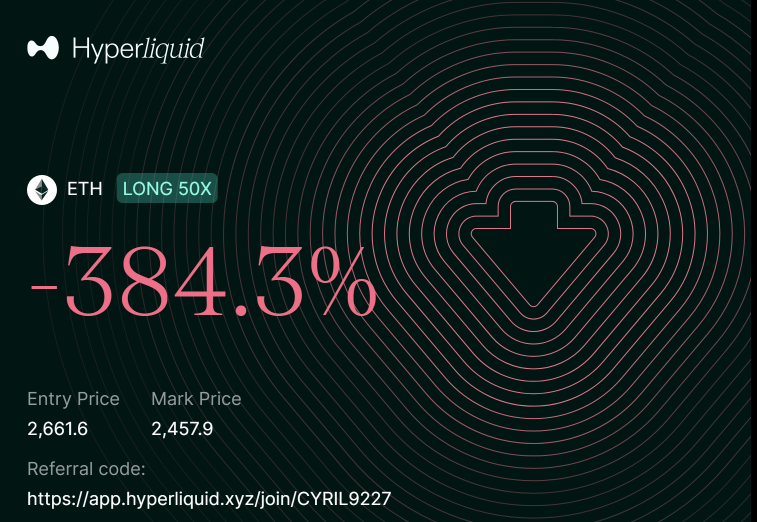
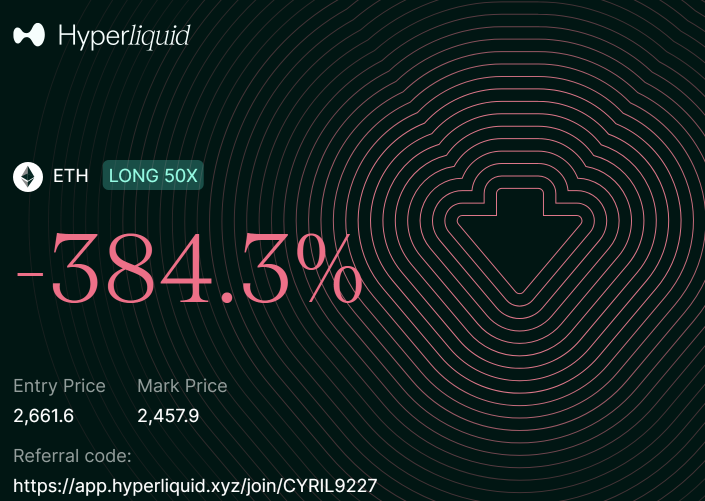
formating

diff --git a/_posts/markov-chain/2024-08-28-markov-chain.md b/_posts/markov-chain/2024-08-28-markov-chain.md
@@ -13,7 +13,10 @@ toc: false
 
 Yeah, so recently I've been reading "The Man Who Solved The Market" by Gregory Zuckerman. Fun book about Jim Simons and his famously cracked Renaissance Technologies hedge fund. Unfortunately, it didn't make me better at trading lol
 
-<img src="/assets/img/rekt.png" alt="HL"> 
+<figure style="text-align: center;">
+  <img src="/assets/img/rekt.png" alt="HL" style="width: 60%; max-width: 500px;">
+  <figcaption style="font-style: italic;">Use my <a href="https://app.hyperliquid.xyz/join/CYRIL9227">ref link</a>👽</figcaption>
+</figure>
 
 but it motivated me to learn more about some of the maths they used. Notably, Markov chains are mentioned a few times, first in the context of the IDA, the Institute for Defense Analyses, where Simons worked before founding Renaissance, he published a paper
 Simons published a paper while working at the IDA in Princeton in 1964 on Markov Chains. So I thought I'd write a post about it.
@@ -62,3 +65,8 @@ This matrix represents the probabilities of moving from one state to another. Ea
 
 
 # Hidden Markov Chains
+
+# Ressources
+
+https://web.stanford.edu/~jurafsky/slp3/A.pdf
+https://github.com/Bratet/Stock-Prediction-Using-Hidden-Markov-Chains/blob/main/src/utils/hmm.py
